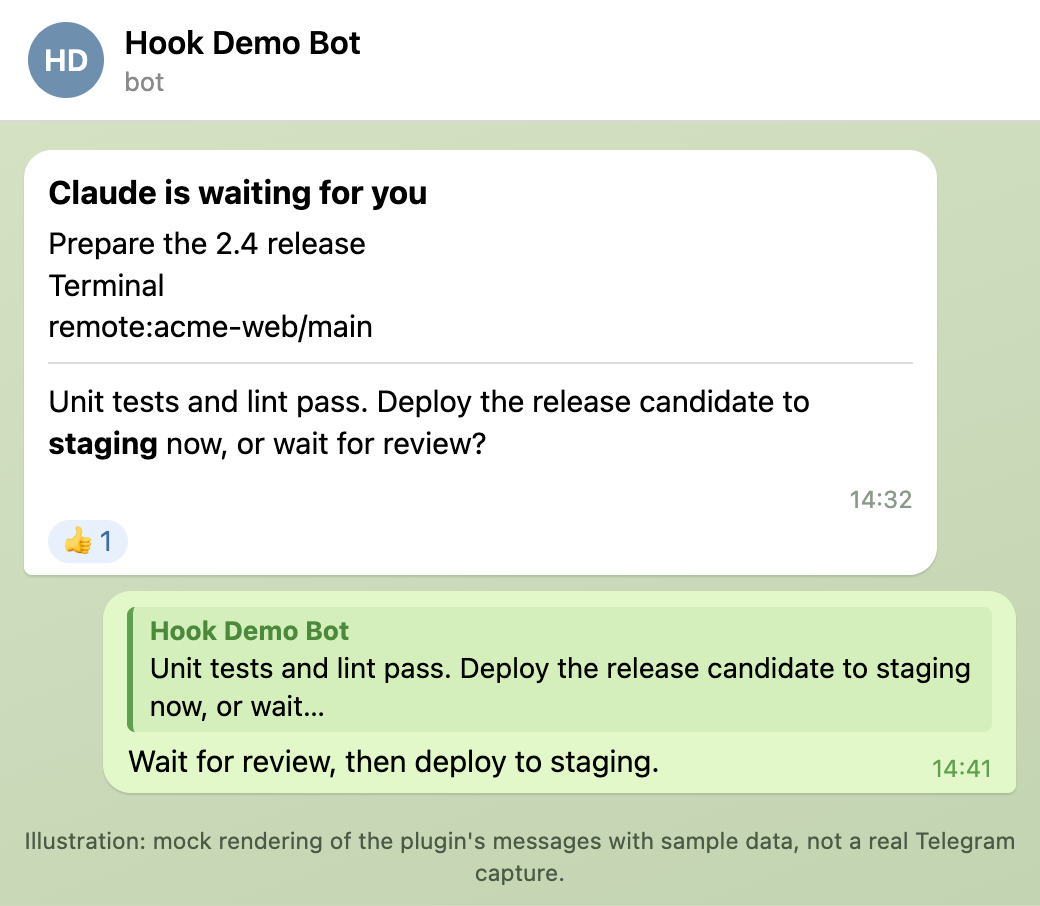
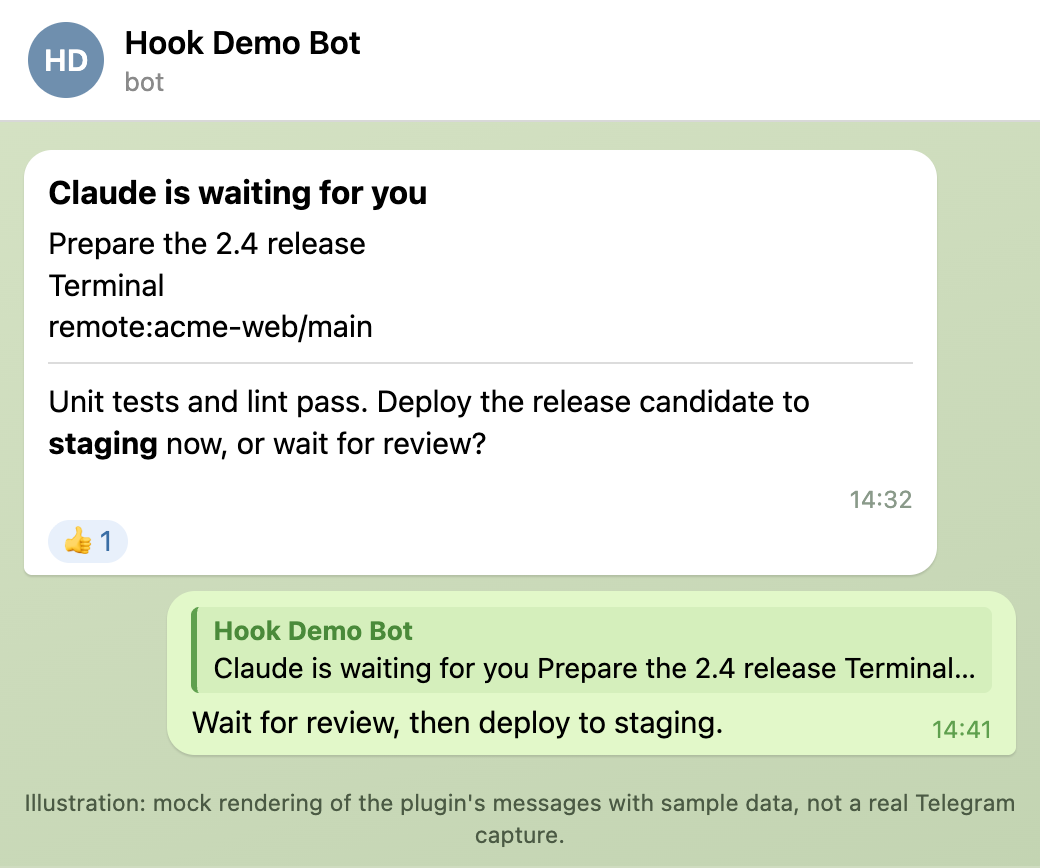
docs: social card uses the full tagline; reply quote shows the start of the ping

Changed region(s): [[0.0, 0.591, 0.9846, 0.9643], [0.0, 0.0311, 1.0, 0.5288], [0.8308, 0.5288, 0.8923, 0.591]]

diff --git a/docs/demo/social-card.html b/docs/demo/social-card.html
@@ -11,7 +11,7 @@
   .text { padding: 0 0 0 88px; width: 640px; }
   h1 { font-size: 64px; line-height: 1.05; margin: 0 0 28px; letter-spacing: -1px; }
   h1 span { color: #8fc7f0; }
-  p { font-size: 27px; line-height: 1.4; margin: 0 0 30px; color: #dbe6ef; }
+  p { font-size: 23px; line-height: 1.4; margin: 0 0 30px; color: #dbe6ef; }
   .meta { font-size: 21px; color: #9fb4c6; }
   .card { margin-left: 70px; width: 380px; background: #fff; color: #111; border-radius: 18px; padding: 18px 20px 14px;
           box-shadow: 0 18px 40px rgba(0,0,0,.35); font-size: 17px; line-height: 1.4; }
@@ -25,7 +25,7 @@
 <body>
   <div class="text">
     <h1>telegram-hook<br><span>for Claude Code</span></h1>
-    <p><b>Answer Claude Code from your phone.</b> Questions, plan approvals and permission prompts arrive in Telegram with answer buttons when you step away.</p>
+    <p><b>Answer Claude Code from your phone.</b> When you step away, its questions, plan approvals and permission prompts arrive in Telegram with answer buttons; your tap or reply goes straight back into the running session.</p>
     <div class="meta">github.com/hlebtkachenko/claude-telegram-hook</div>
   </div>
   <div class="card">

diff --git a/docs/demo/mock.html b/docs/demo/mock.html
@@ -114,7 +114,7 @@ function phone(body, caption = true) {
     `<div class="sub">bot</div></div></div><div class="chat">${body}</div>${caption ? `<div class="caption">${CAPTION}</div>` : ""}</div>`;
 }
 
-const reply = `<div class="msg out"><div class="bubble"><div class="quote"><b>Hook Demo Bot</b>Unit tests and lint pass. Deploy the release candidate to staging now, or wait…</div>` +
+const reply = `<div class="msg out"><div class="bubble"><div class="quote"><b>Hook Demo Bot</b>Claude is waiting for you Prepare the 2.4 release Terminal…</div>` +
   `Wait for review, then deploy to staging.<span class="time">14:41</span><div style="clear:both"></div></div></div>`;
 
 const view = location.hash.slice(1) || "question";
